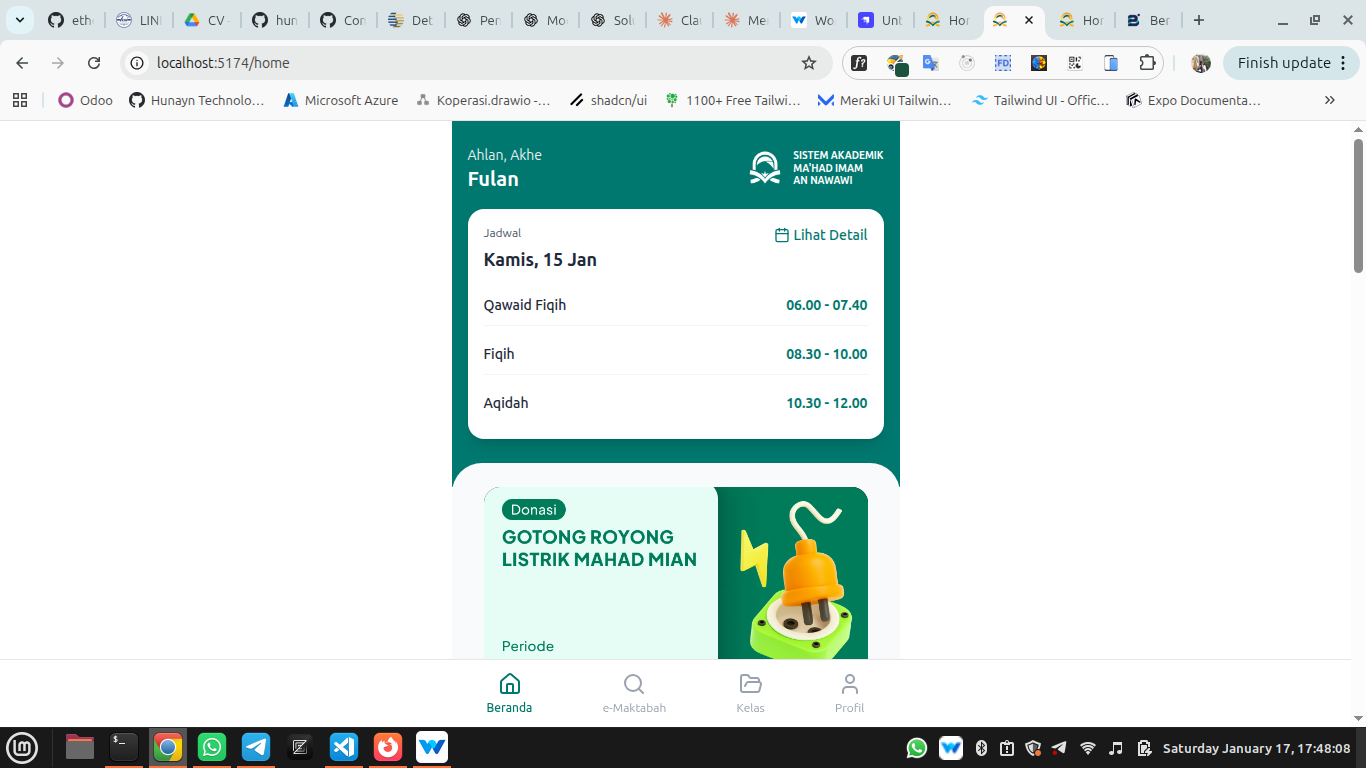
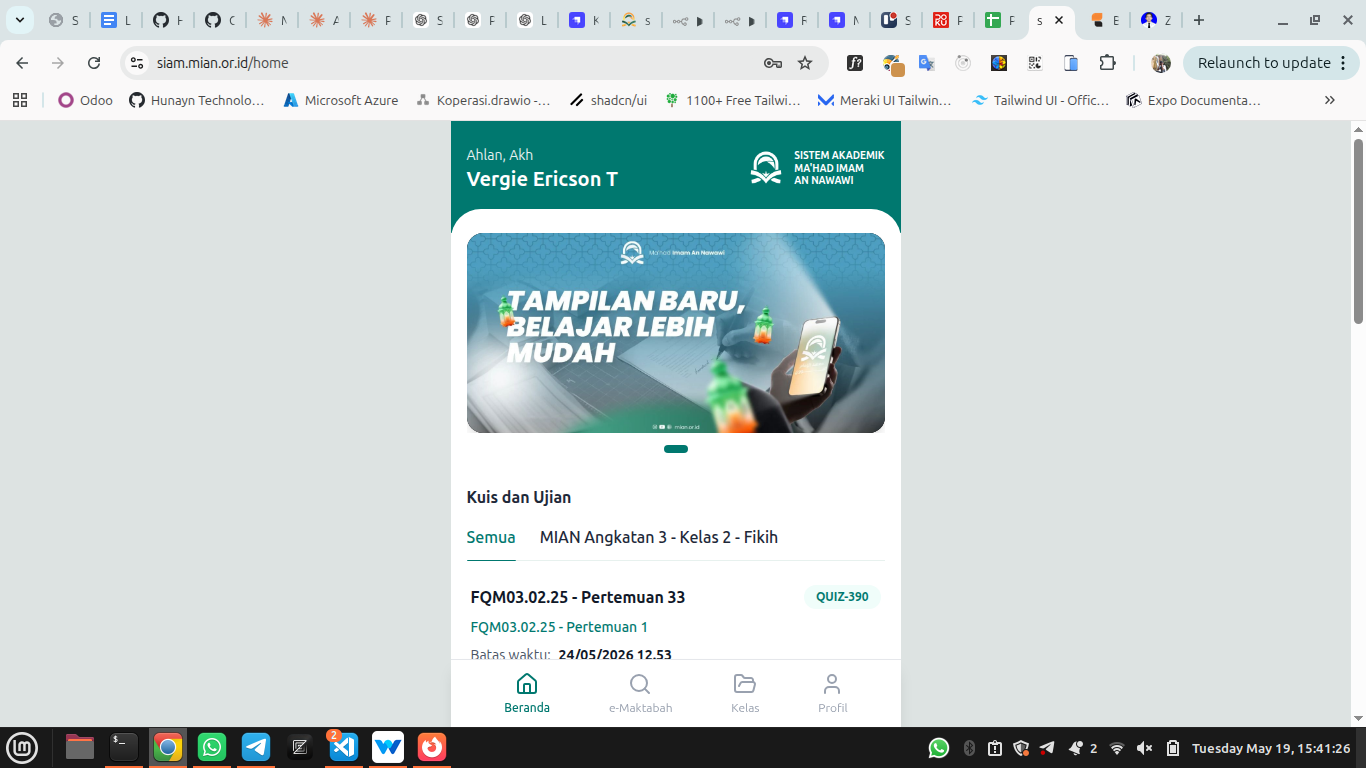
update portofolio project siam mian

diff --git a/src/components/Portfolio.js b/src/components/Portfolio.js
@@ -270,36 +270,36 @@ const Portfolio = () => {
           features: {
             ar: ["....."],
             en: [
-              "Authentication system (login, register) with step validation and error handling",
-              "Home page with schedule, quiz/deadline, muroja'ah video, presensi (clock in/out)",
-              "Class page with course listing and detail page with schedule & quiz tabs",
-              "Lesson detail with description, content, and zoom in/out functionality",
-              "Quiz page supporting multiple_choice, single_choice, true_false, and essay (with image in RTE)",
-              "Quiz result and detail with score visualization (ScoreCircle component)",
-              "Profile page with user data, avatar upload, and SP payment integration",
-              "Payment page with sorting, filter, and load more functionality",
-              "Overdue modal notification for payment obligations",
-              "Payment gateway integration (Doku) with webhook n8n",
-              "Reusable components: Bottom Navigation, Tab Navigation, Modal, Loading State (Skeleton)",
-              "API integration with service layer abstraction and error handling",
-              "Route protection based on authentication status",
-              "Responsive mobile-first UI deployed to Cloudflare Pages",
+              "Authentication (login, register) with step validation, error handling, and route protection",
+              "Home page: schedule, quiz/deadline filter, muroja'ah video, attendance (clock in/out), dynamic greeting by gender",
+              "Class page with course categories (reguler, arsip, Masdar, Mulakhash), detail page with schedule, quiz, grades/rapor, silabus, and attendance tabs",
+              "Lesson detail with rich text content, Arabic text support, zoom in/out, and syllabus download",
+              "Quiz: multiple_choice, single_choice, true_false, essay; retake logic, image in RTE, result with score visualization",
+              "Profile: user data, avatar upload, change password, SPP payment summary with responsibility & due date",
+              "SPP payment page with sorting, filter, load more; Doku payment gateway with n8n webhook for callback handling and WhatsApp notification",
+              "Registration flow (multi-step) with dynamic commitments from Strapi, address autocomplete, phone code selector, and conditional fields",
+              "Doku payment gateway on registration: n8n workflow for payment creation, Doku callback handling, auto status check, and WhatsApp notification (Watzap) after successful payment",
+              "Teacher dashboard: class & lesson management, attendance, grades, quiz results, rich text editor, dark mode",
+              "Admin role with separate auth (Strapi Admin Panel), dashboard, and responsive layout",
+              "e-Maktabah: book listing with search, filter by course/lesson, and PDF detail page",
+              "Reusable components: Bottom Navigation, Tab Navigation, Skeleton Loading, Modal, ScoreCircle",
+              "API service layer abstraction, React Query caching, and Cloudflare Pages CI/CD deployment",
             ],
             id: [
-              "Sistem autentikasi (login, register) dengan validasi bertahap dan penanganan error",
-              "Halaman utama dengan jadwal, kuis/batas waktu, video muroja'ah, presensi (clock in/out)",
-              "Halaman kelas dengan daftar kursus dan halaman detail dengan tab jadwal & kuis",
-              "Detail pelajaran dengan deskripsi, konten, dan fungsi zoom in/out",
-              "Halaman kuis mendukung multiple_choice, single_choice, true_false, dan essay (dengan gambar di RTE)",
-              "Hasil kuis dan detail dengan visualisasi skor (komponen ScoreCircle)",
-              "Halaman profil dengan data pengguna, upload avatar, dan integrasi pembayaran SPP",
-              "Halaman pembayaran dengan pengurutan, filter, dan fungsionalitas load more",
-              "Modal notifikasi tunggakan untuk kewajiban pembayaran",
-              "Integrasi payment gateway (Doku) dengan webhook n8n",
-              "Komponen reusable: Bottom Navigation, Tab Navigation, Modal, Loading State (Skeleton)",
-              "Integrasi API dengan lapisan abstraksi service dan penanganan error",
-              "Route protection berdasarkan status autentikasi",
-              "Tampilan responsif mobile-first yang di-deploy ke Cloudflare Pages",
+              "Autentikasi (login, register) dengan validasi bertahap, penanganan error, dan route protection",
+              "Beranda: jadwal, filter kuis/deadline, video muroja'ah, presensi (clock in/out), sapaan dinamis berdasarkan gender",
+              "Halaman kelas dengan kategori (reguler, arsip, Masdar, Mulakhash), detail kelas dengan tab jadwal, kuis, nilai/rapor, silabus, dan absensi",
+              "Detail pelajaran dengan konten rich text, dukungan teks Arab, zoom in/out, dan unduh silabus",
+              "Kuis: multiple_choice, single_choice, true_false, essay; logika retake, gambar di RTE, hasil dengan visualisasi skor",
+              "Profil: data pengguna, upload avatar, ubah password, ringkasan tagihan SPP dengan tab tanggungan & jatuh tempo",
+              "Halaman pembayaran SPP dengan sorting, filter, load more; payment gateway Doku dengan webhook n8n untuk handling callback dan notifikasi WhatsApp",
+              "Alur registrasi multi-step dengan komitmen dinamis dari Strapi, autocomplete alamat, pilihan kode telepon, dan field kondisional",
+              "Payment gateway Doku untuk biaya pendaftaran: workflow n8n untuk pembuatan pembayaran, handling callback Doku, pengecekan status otomatis, dan notifikasi WhatsApp (Watzap) setelah pembayaran berhasil",
+              "Dashboard Guru: manajemen kelas & pertemuan, absensi, nilai, hasil kuis, rich text editor, dark mode",
+              "Role Admin dengan autentikasi terpisah (Strapi Admin Panel), dashboard, dan layout responsif",
+              "e-Maktabah: daftar buku dengan pencarian, filter berdasarkan kursus/pelajaran, dan halaman detail PDF",
+              "Komponen reusable: Bottom Navigation, Tab Navigation, Skeleton Loading, Modal, ScoreCircle",
+              "Abstraksi service layer API, caching React Query, dan deployment CI/CD ke Cloudflare Pages",
             ],
           },
           type: "frontend",
@@ -719,11 +719,10 @@ const Portfolio = () => {
               <button
                 key={tab.key}
                 onClick={() => setActiveTab(tab.key)}
-                className={`px-4 sm:px-6 py-2 rounded-lg font-semibold flex items-center justify-center gap-2 text-sm sm:text-base ${
-                  activeTab === tab.key
-                    ? "bg-blue-500 text-white"
-                    : "text-gray-600 hover:text-gray-800"
-                }`}
+                className={`px-4 sm:px-6 py-2 rounded-lg font-semibold flex items-center justify-center gap-2 text-sm sm:text-base ${activeTab === tab.key
+                  ? "bg-blue-500 text-white"
+                  : "text-gray-600 hover:text-gray-800"
+                  }`}
               >
                 <span className="flex-shrink-0">{tab.icon}</span>
                 <span className="whitespace-nowrap">{tab.label}</span>
@@ -746,11 +745,10 @@ const Portfolio = () => {
                       <button
                         key={exp.id}
                         onClick={() => setSelectedCategory(exp.company.toLowerCase().replace(/[^a-z0-9]/g, '-'))}
-                        className={`px-4 sm:px-6 py-2 rounded-lg font-semibold flex items-center justify-center gap-2 text-sm sm:text-base ${
-                          selectedCategory === exp.company.toLowerCase().replace(/[^a-z0-9]/g, '-')
-                            ? "bg-blue-500 text-white"
-                            : "text-gray-600 hover:text-gray-800"
-                        }`}
+                        className={`px-4 sm:px-6 py-2 rounded-lg font-semibold flex items-center justify-center gap-2 text-sm sm:text-base ${selectedCategory === exp.company.toLowerCase().replace(/[^a-z0-9]/g, '-')
+                          ? "bg-blue-500 text-white"
+                          : "text-gray-600 hover:text-gray-800"
+                          }`}
                       >
                         <img
                           src={exp.logo}
@@ -767,7 +765,7 @@ const Portfolio = () => {
                 {experiences?.map((exp) => {
                   const categoryKey = exp.company.toLowerCase().replace(/[^a-z0-9]/g, '-');
                   if (selectedCategory !== categoryKey) return null;
-                  
+
                   return (
                     <div key={exp.id}>
                       {/* Company Info */}
@@ -792,13 +790,13 @@ const Portfolio = () => {
                             <p className="text-sm text-gray-500 mt-1">{exp.type}</p>
                           </div>
                         </div>
-                        
+
                         {/* Company Description & Website */}
                         {(() => {
                           // Find matching company in portfolioData by checking if company name contains the key
                           let companyData = null;
                           const companyLower = exp.company.toLowerCase();
-                          
+
                           // Map company names to portfolioData keys
                           const companyKeyMap = {
                             'hunayn': 'hunayn',
@@ -806,7 +804,7 @@ const Portfolio = () => {
                             'pragma': 'pragma',
                             'ibnu': 'pps-ibnu-masud',
                           };
-                          
+
                           // Try to find matching key
                           for (const [searchKey, portfolioKey] of Object.entries(companyKeyMap)) {
                             if (companyLower.includes(searchKey)) {
@@ -814,7 +812,7 @@ const Portfolio = () => {
                               break;
                             }
                           }
-                          
+
                           if (!companyData) return null;
                           return (
                             <div className="mt-6 pt-4 border-t border-gray-200">
@@ -959,11 +957,11 @@ const Portfolio = () => {
 
         {/* Project Detail Modal */}
         {selectedProjectModal && (
-          <div 
+          <div
             className="fixed inset-0 bg-black bg-opacity-50 z-50 flex items-center justify-center p-4"
             onClick={() => setSelectedProjectModal(null)}
           >
-            <div 
+            <div
               className="bg-white rounded-xl shadow-2xl max-w-3xl w-full max-h-[90vh] overflow-hidden"
               onClick={(e) => e.stopPropagation()}
             >
